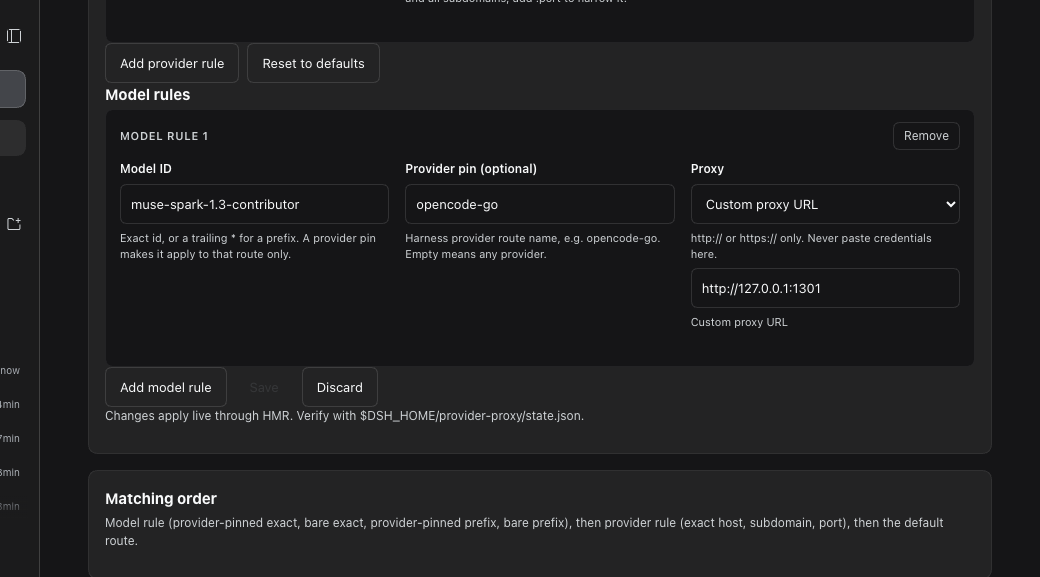
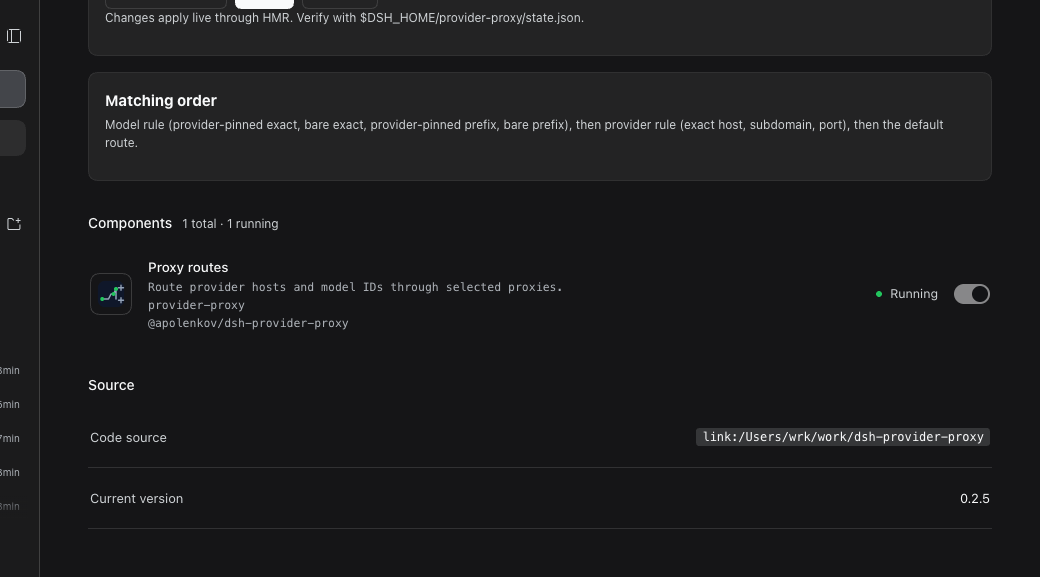
Re-record English walkthrough assets on the card layout (0.2.5)

diff --git a/client/client.theme.js b/client/client.theme.js
@@ -22,11 +22,12 @@ window.__ModuleLoader__.load({
       '.px-error-summary a{color:inherit}',
       '.px-badge{display:inline-block;border:1px solid var(--dsw-alias-border-l2);border-radius:999px;padding:1px 9px;font-size:11px;color:var(--dsw-alias-label-secondary)}',
       '.px-rules{display:flex;flex-direction:column;gap:12px}',
-      '.px-rule{border:1px solid var(--dsw-alias-border-l1);border-radius:10px;background:var(--dsw-alias-bg-base);padding:12px 14px 14px}',
+      '.px-rule{border:1px solid var(--dsw-alias-border-l1);border-radius:10px;background:var(--dsw-alias-bg-base);padding:16px}',
       '.px-rule-head{display:flex;align-items:center;justify-content:space-between;gap:8px;margin:0 0 10px}',
       '.px-rule-name{font-size:11px;font-weight:600;letter-spacing:.06em;text-transform:uppercase;color:var(--dsw-alias-label-secondary)}',
       '.px-rule-remove{min-height:28px;padding:0 10px;font-size:12px;line-height:1;border-radius:8px;border:1px solid var(--dsw-alias-border-l2);background:transparent;color:var(--dsw-alias-label-secondary);cursor:pointer}',
       '.px-rule-remove:hover:not(:disabled){border-color:var(--dsw-alias-state-error-primary);color:var(--dsw-alias-state-error-primary)}',
+      '.px-rule-remove:disabled{opacity:.5;cursor:default}',
       '.px-rule-grid{display:grid;grid-template-columns:repeat(auto-fit,minmax(260px,1fr));gap:12px 16px}',
       '.px-rule-grid>*{min-width:0}',
       '.px-field{display:flex;flex-direction:column;gap:6px;min-width:0}',

diff --git a/CHANGELOG.md b/CHANGELOG.md
@@ -4,6 +4,15 @@ All notable changes to `dsh-provider-proxy` are documented here.
 The format follows [Keep a Changelog](https://keepachangelog.com/en/1.1.0/),
 and versions follow [Semantic Versioning](https://semver.org/).
 
+## [0.2.5] - 2026-10-23
+
+### Changed
+- **Cards at every width:** rules no longer depend on a table + container query. Each rule
+  is a card (header with the rule name and the Remove action, fields in an auto-fit grid:
+  one column in the ~530 px Settings panel, three on the wide Plugins page). Fields always
+  span the card, and the action never overlaps content or scrolls out of view.
+- **Status pill pluralises:** "1 provider rule · 1 model rule" (Russian three-form plurals too).
+
 ## [0.2.4] - 2026-10-23
 
 ### Changed
